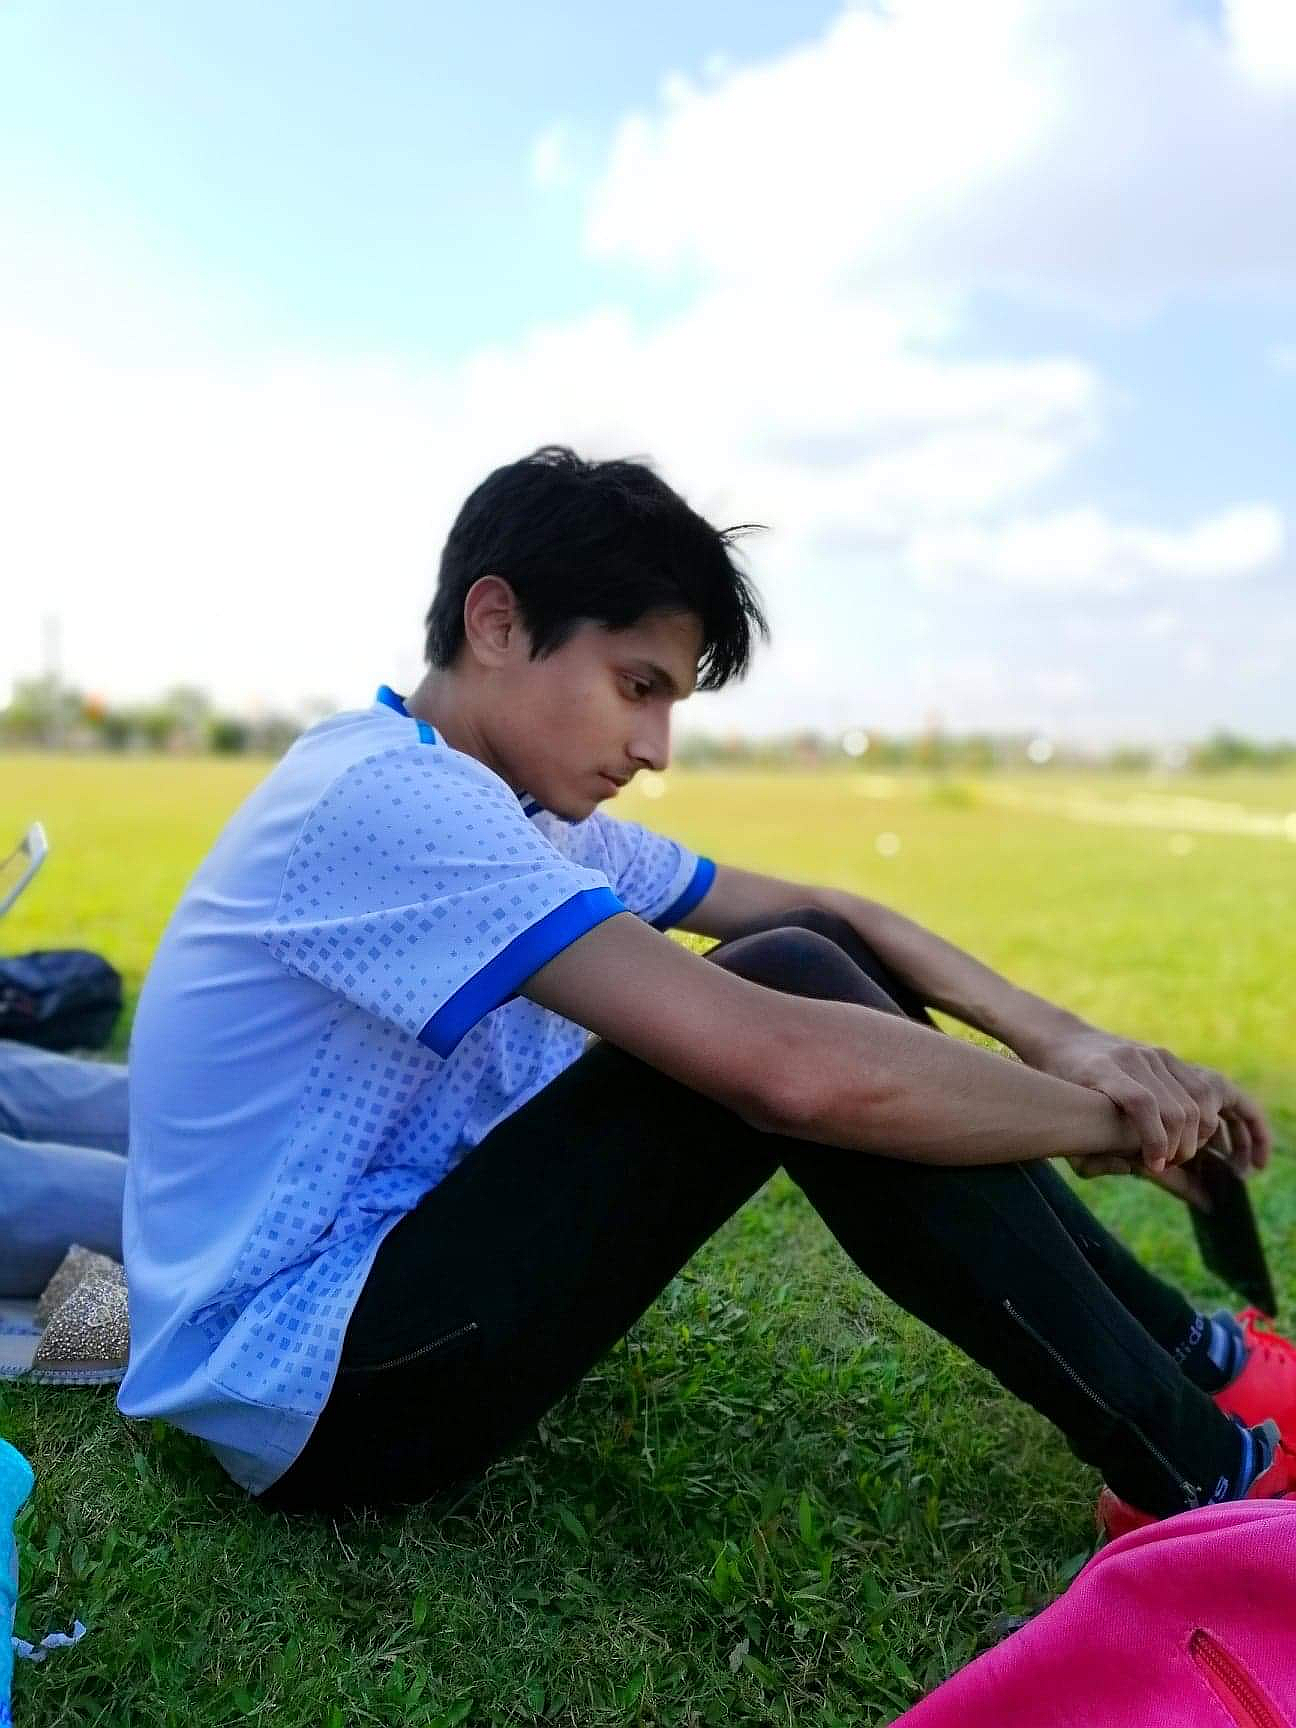
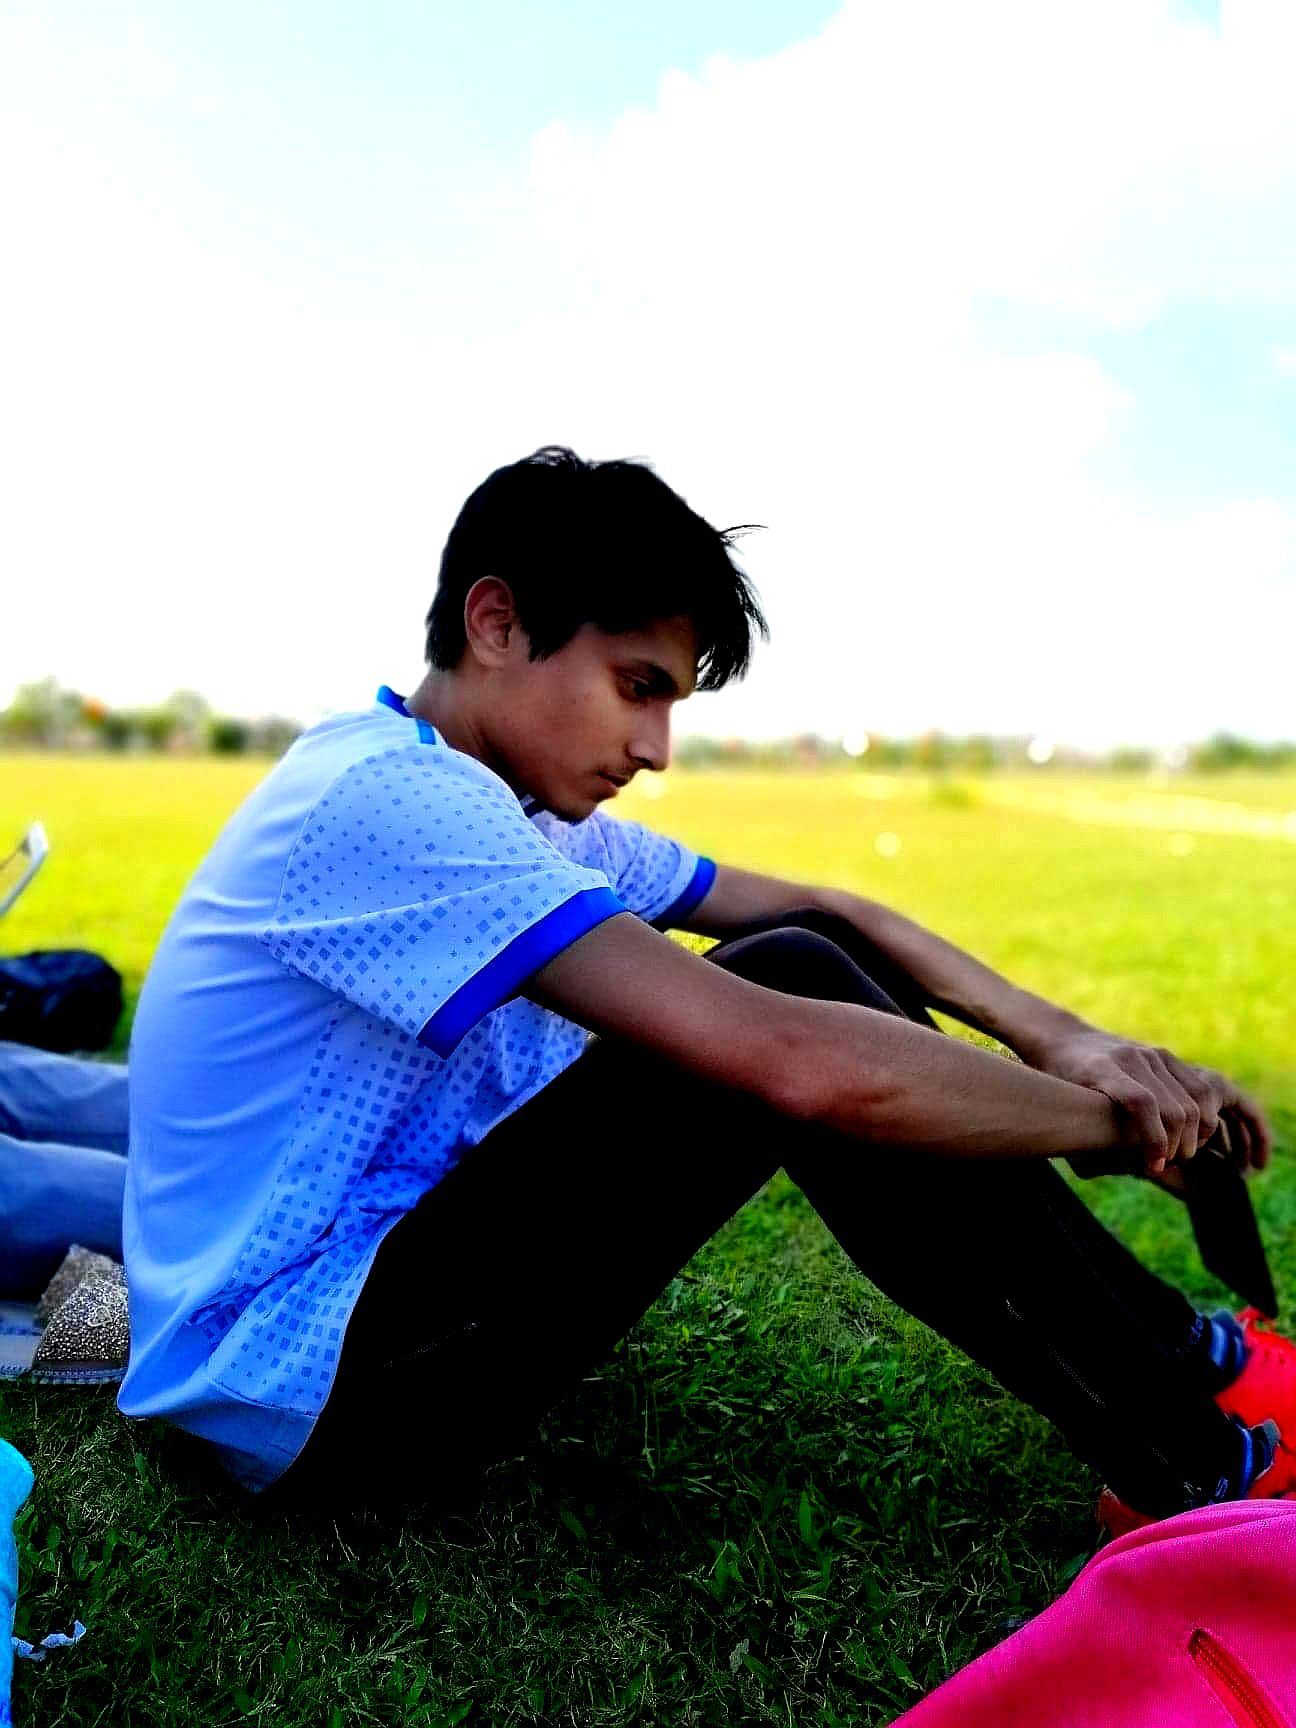
Enhanced

diff --git a/main.py b/main.py
@@ -7,5 +7,9 @@ pathOut = '/edit'
 for filename in os.listdir(path):
     img = Image.open(f"{path}/{filename}")
     edit = img.filter(ImageFilter.SHARPEN)
+
+    fact = 1.5
+    enhancer = ImageEnhance.Contrast(edit)
+    edit = enhancer.enhance(fact)
     clean_name = os.path.splitext(filename)[0]
     edit.save(f'.{pathOut}/{clean_name}_edited.png')
